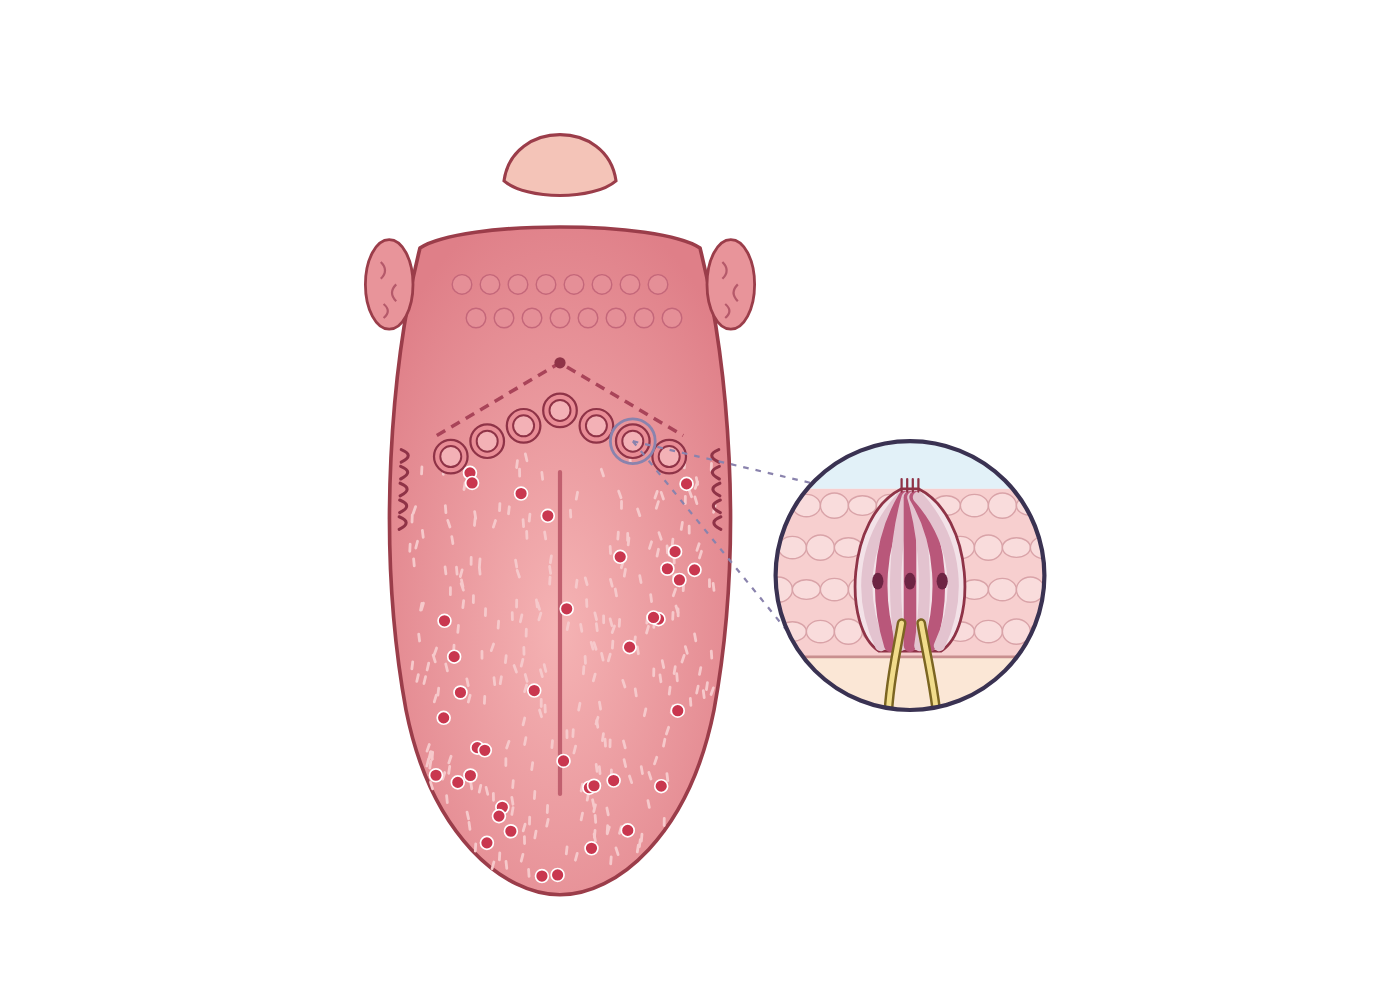
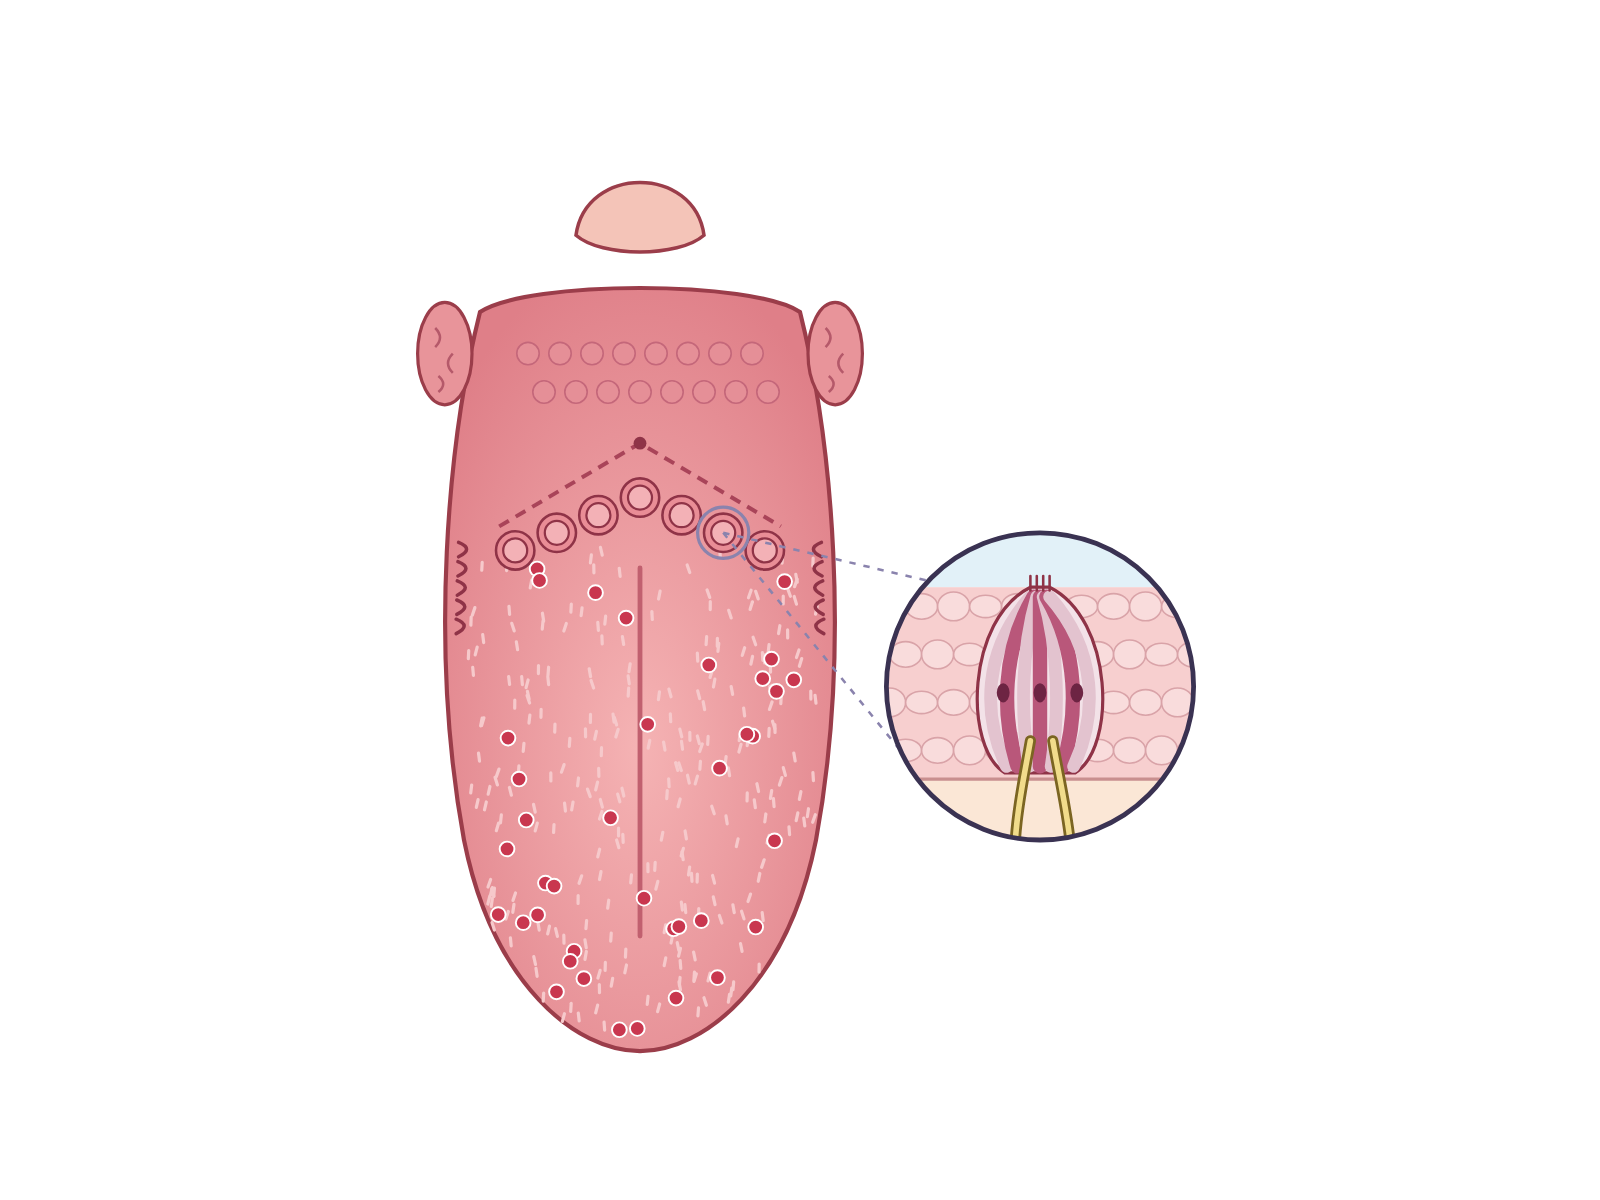
Referències a 4:3
Claude-Session: https://claude.ai/code/session_01JsZBfczYfQ1sHnvtZfG7kg

diff --git a/README.md b/README.md
@@ -1,2 +1,2 @@
 # Referències per a la generació d’imatges
-Dibuixos SVG renderitzats (1400×1000) que es fan servir com a plantilla per a OpenRouter.
+Dibuixos SVG renderitzats (1600×1200 (4:3, viewBox 0 −25 1000 750)) que es fan servir com a plantilla per a OpenRouter.
